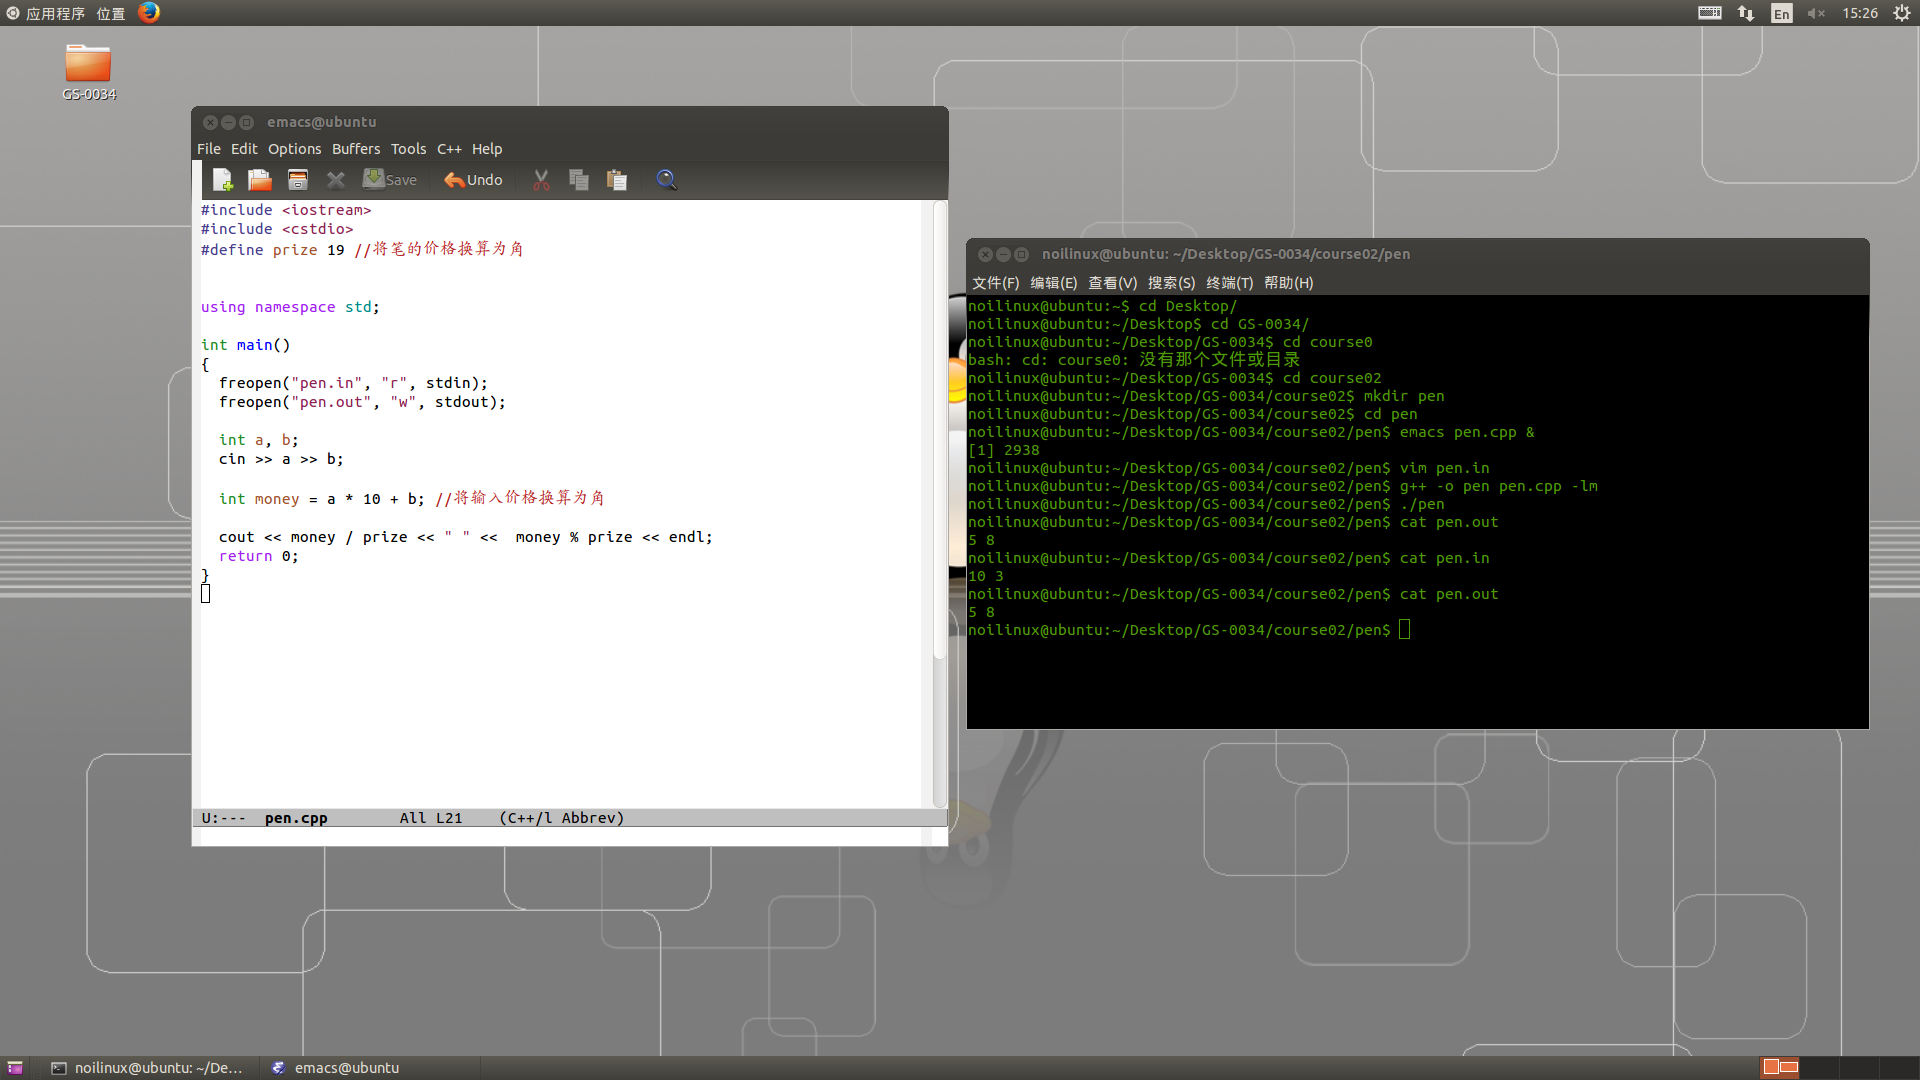
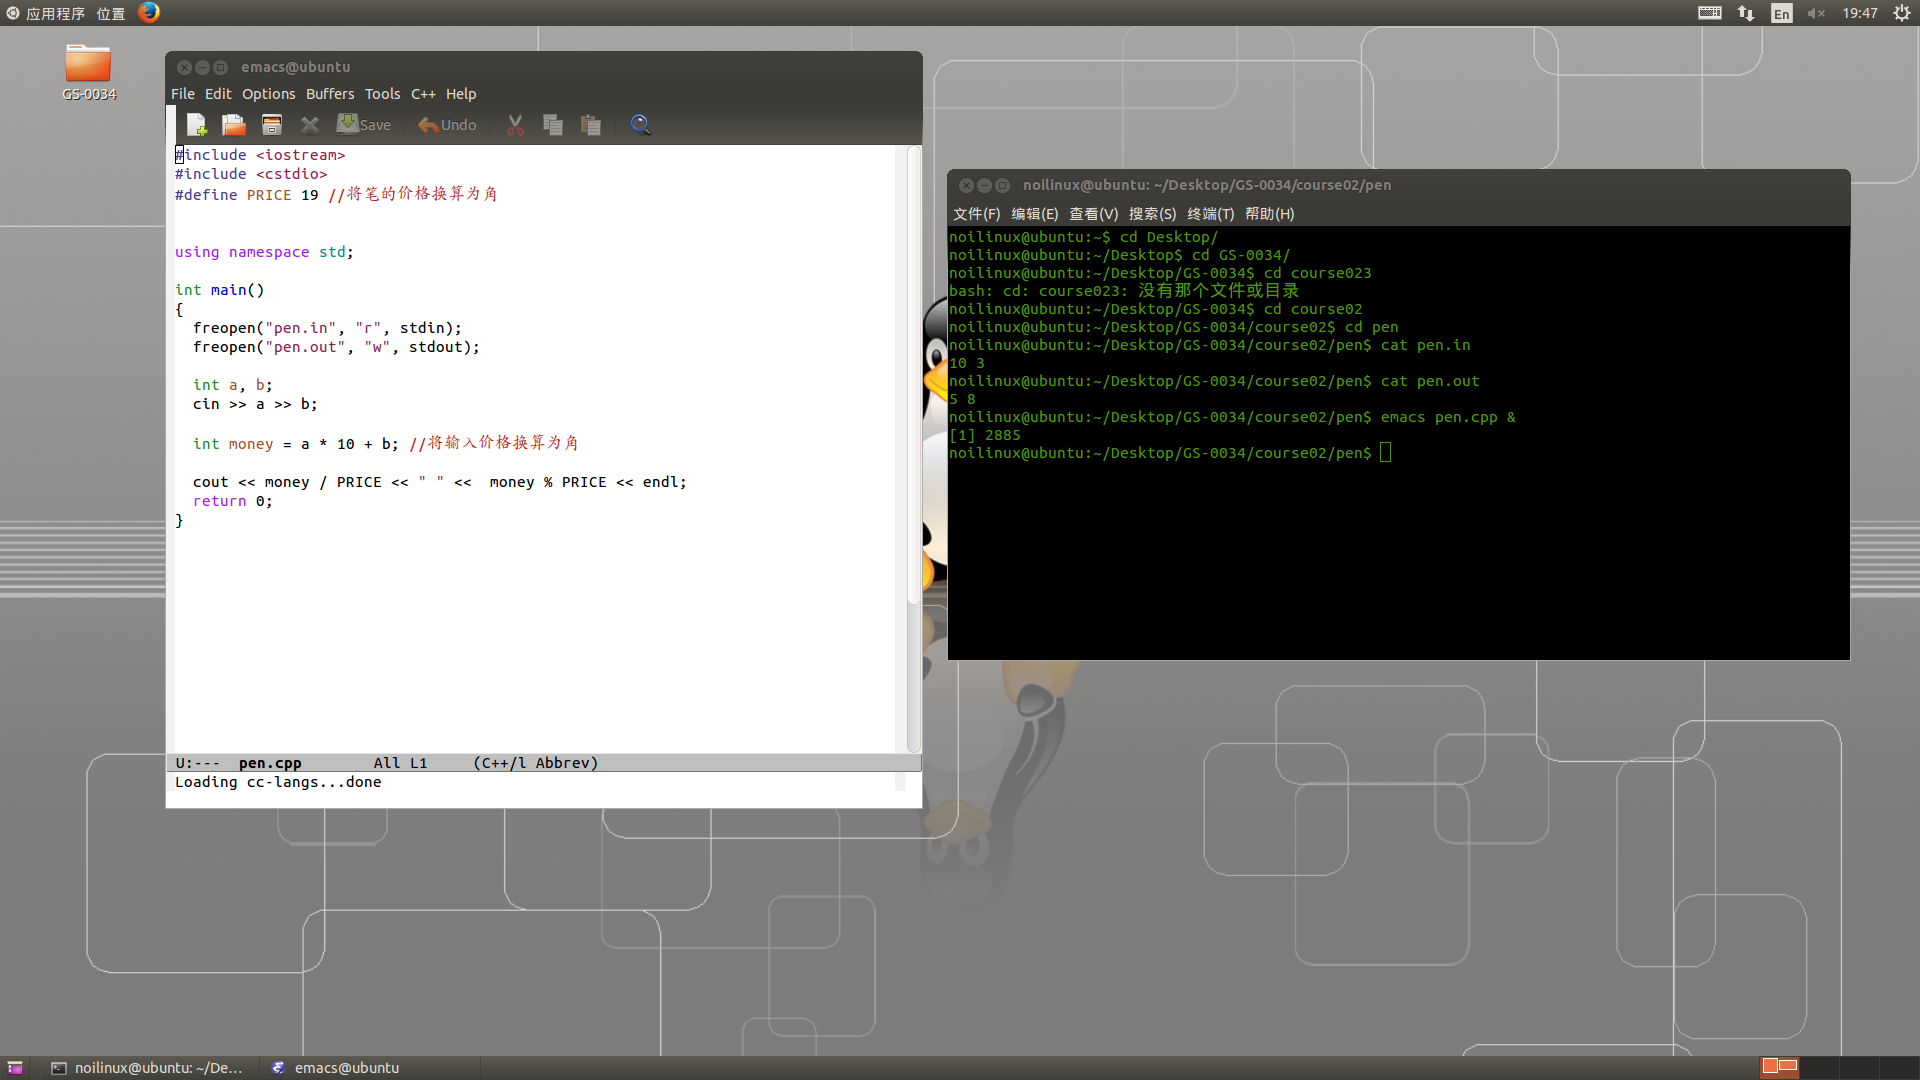
Update2019年01月17日19时50分34秒

Changed region(s): [[0.0625, 0.0306, 1.0, 0.7944], [0.9062, 0.9778, 0.9375, 1.0]]

diff --git a/02/HomeWork/pen/pen.cpp b/02/HomeWork/pen/pen.cpp
@@ -1,6 +1,6 @@
 #include <iostream>
 #include <cstdio>
-#define prize 19 //将笔的价格换算为角
+#define PRICE 19 //将笔的价格换算为角
 
 
 using namespace std;
@@ -15,6 +15,6 @@ int main()
   
   int money = a * 10 + b; //将输入价格换算为角
   
-  cout << money / prize << " " <<  money % prize << endl;
+  cout << money / PRICE << " " <<  money % PRICE << endl;
   return 0;
 }
